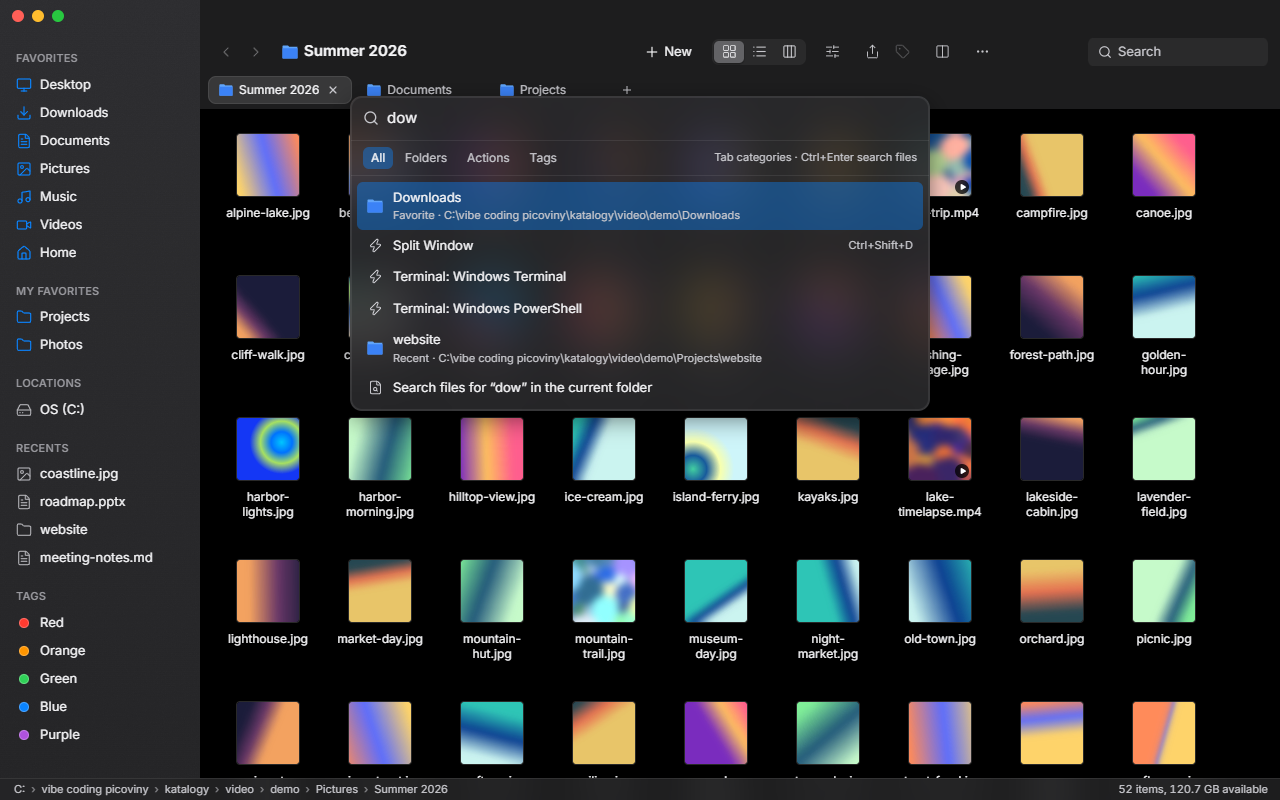
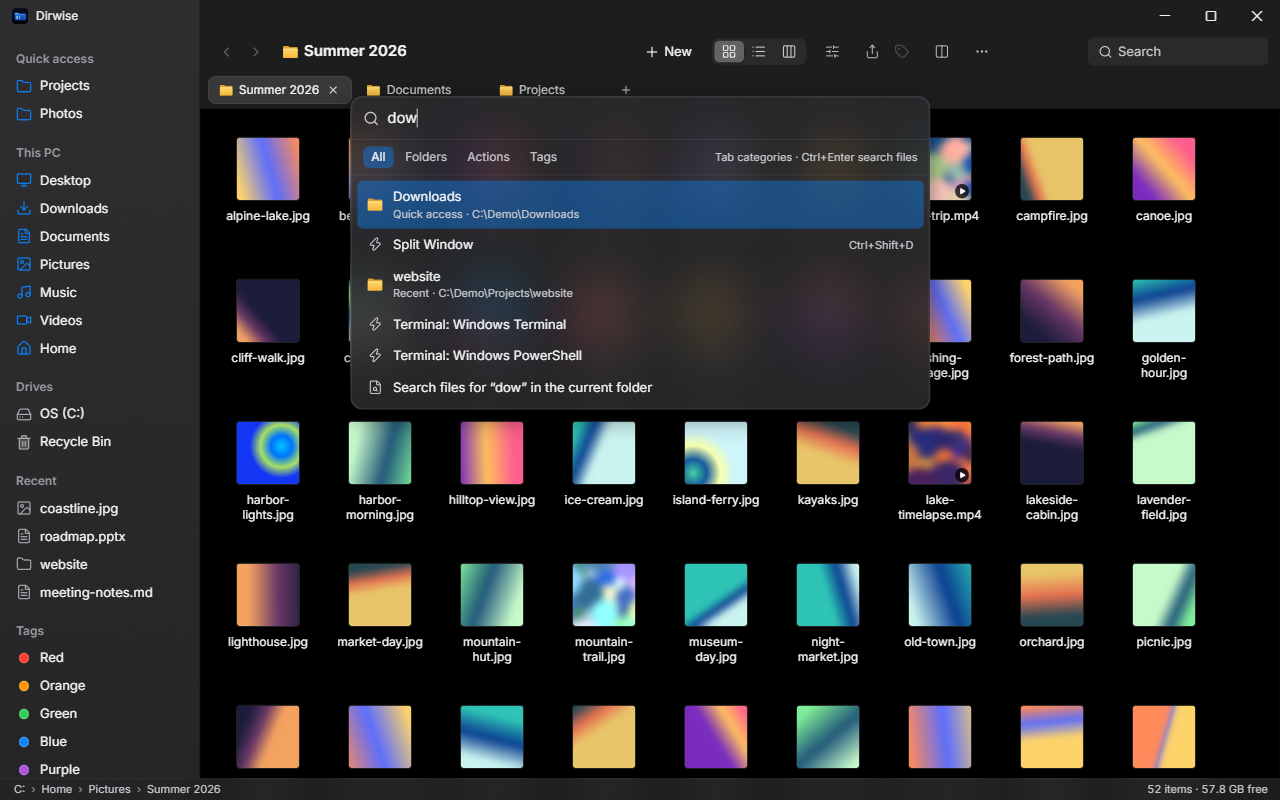
Release 1.6.0
Dirwise (dříve Finder-Win): tlačítka okna Windows 11 se Snap Layouts, nový název
a vzhled bez prvků macOS. Nové screenshoty (README i Store 1920×1080), demo.gif,
grafika pro sítě a download tlačítka.

diff --git a/CHANGELOG.md b/CHANGELOG.md
@@ -1,6 +1,17 @@
 # Changelog
 
-Notable changes in each Finder-Win release. Installers are on the [Releases](https://github.com/krystof2-ops/finder-win/releases) page.
+Notable changes in each Dirwise release (up to 1.5.2 the app was called Finder-Win). Installers are on the [Releases](https://github.com/krystof2-ops/finder-win/releases) page.
+
+## [1.6.0](https://github.com/krystof2-ops/finder-win/releases/tag/v1.6.0) – 2026-10-14
+
+- **New name: Dirwise** – the previous name pointed to a third-party product. Installer `Dirwise_<version>_x64-setup.exe`, winget ID `krystof2-ops.Dirwise` (coming soon). Settings and the data folders under `com.krystof2ops.finderwin` are kept; the icon and thumbnail cache moved to `%LOCALAPPDATA%\dirwise` (Store build `dirwise-store`) and is rebuilt on demand.
+- **Windows 11 window buttons** – the title bar has a small icon and the name “Dirwise” on the left and the standard Minimize, Maximize / Restore and Close buttons on the right, including **Snap Layouts** when hovering Maximize. The coloured buttons on the left are gone.
+- **Sidebar** – headings in normal case; sections Quick access (pinned folders, formerly My Favorites) / This PC (Desktop, Downloads, Documents …, formerly Favorites) / Cloud / Drives (with the Recycle Bin, formerly Locations) / Recent / Tags. New context menu item **Pin to Quick Access**.
+- **Icons view** – a selected item highlights the whole tile (icon and name), like in Windows 11.
+- **Status bar** – “1 of 52 selected · 120.7 GB free”.
+- **New folder icon** – amber, in the style of Windows 11 (instead of the blue one).
+- **Quick Look renamed to Preview** (Space, menu, command palette) – the old name belongs to another vendor.
+- **Upgrading from Finder-Win 1.5.x** – the Dirwise installer silently uninstalls the old installation (no second copy side by side) and your settings are kept. Pin the app to the taskbar again.
 
 ## [1.5.2](https://github.com/krystof2-ops/finder-win/releases/tag/v1.5.2) – 2026-10-11
 

diff --git a/docs/store-listing.md b/docs/store-listing.md
@@ -44,7 +44,7 @@ Version 1.6.0
 - Sidebar sections: Quick access, This PC, Cloud, Drives (with the Recycle Bin), Recent and Tags. Pin folders from the context menu with Pin to Quick Access.
 - Icons view highlights the whole tile when selected.
 - The status bar shows the selection and free space, e.g. 1 of 52 selected · 120.7 GB free.
-- New folder icon.
+- New amber folder icon in the style of Windows 11.
 - The quick preview is now simply called Preview.
 
 ### Features (max 20)
@@ -97,7 +97,7 @@ Verze 1.6.0
 - Sekce postranního panelu: Rychlý přístup, Tento počítač, Cloud, Disky (s Košem), Nedávné a Štítky. Složky připneš v kontextovém menu přes Připnout do Rychlého přístupu.
 - V zobrazení Ikony se při výběru podbarví celá dlaždice.
 - Stavový řádek ukazuje výběr a volné místo, např. 1 z 52 vybráno · volno 120,7 GB.
-- Nová ikona složky.
+- Nová jantarová ikona složky ve stylu Windows 11.
 - Rychlý náhled se nově jmenuje prostě Náhled.
 
 ### Funkce (max 20)
